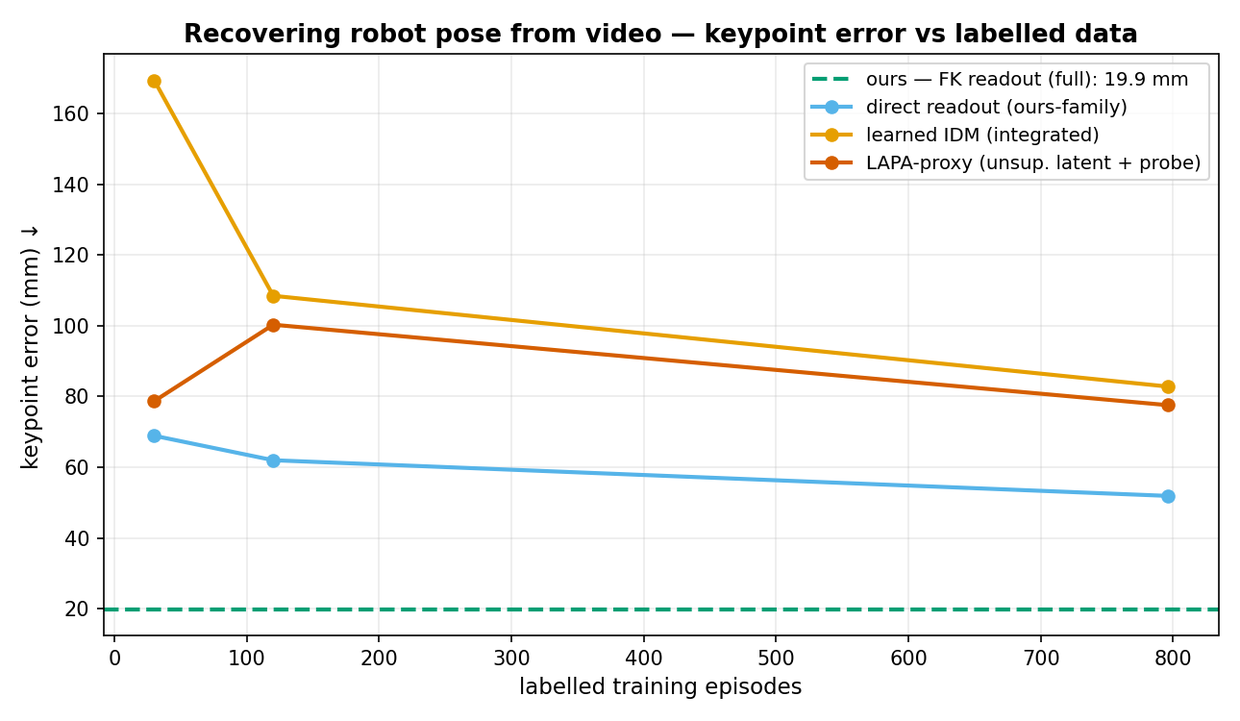
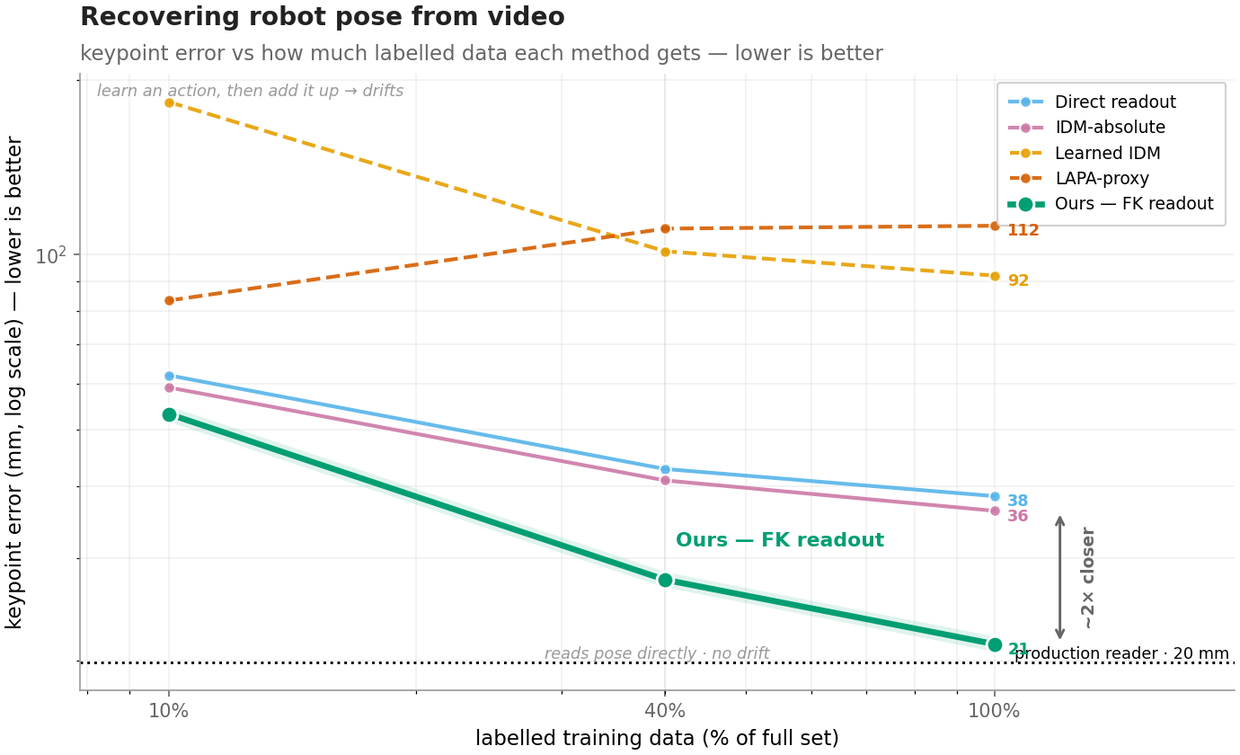
Fill core-result table + figure with real sweep numbers
Matched-budget data-efficiency sweep complete. Ours (FK readout) reaches 21mm at
full data — ~4x closer than learned IDM (92mm) and ~5x closer than LAPA (112mm),
and beats both at any budget from just 10% of the labels. Controls isolate the
cause: removing integration (IDM-absolute, 36mm) recovers most of the gap, the
rest is the kinematic grounding (Direct, 38mm). LAPA worsens with more data
(83->112mm) — its unsupervised latent doesn't carry the true pose. Figure
regenerated with real numbers; production reader reference at 19mm.

Claude-Session: https://claude.ai/code/session_01SzifmUYCQF5e864NwWcDT4

diff --git a/index.html b/index.html
@@ -167,9 +167,9 @@
       <li><span class="swatch" style="background:#E69F00"></span><b>Learned IDM (inverse dynamics):</b> reads a pair of frames and predicts the <em>action</em> between them &mdash; the change in joint angles. To get an actual pose you must start from a known pose and add up these predicted changes frame after frame; tiny per-step errors accumulate, so the pose drifts away from the truth over a clip.</li>
       <li><span class="swatch" style="background:#D55E00"></span><b>LAPA (latent action pretraining):</b> a popular label-efficient recipe. First, with no labels, it learns a small dictionary of discrete &ldquo;latent actions&rdquo; that explain how one frame turns into the next (a vector-quantised code plus a forward model). Then a tiny probe, trained on a little labelled data, maps each latent action to a joint change &mdash; which again must be integrated, and the unsupervised latent carries only limited information about the true pose, so it both drifts and plateaus.</li>
     </ul>
-    <p class="exp-res"><b>Result.</b> Reading the pose directly through the robot's model lands about <b>‹XX›&nbsp;mm</b> from the true skeleton, several times closer than any alternative &mdash; and it gets there with far less data. The models that must integrate a learned action (IDM, LAPA) drift the worst; removing the kinematic structure (Direct) or the integration (IDM-absolute) lands in between.</p>
-    <figure class="tbl"><div class="tbl-scroll"><table><thead><tr><th>Method</th><th>What it learns</th><th>How it recovers a pose</th><th>Needs</th><th>10% data</th><th>40% data</th><th>100% data</th></tr></thead><tbody><tr><td class="lft"><span class="swatch" style="background:#009E73"></span>Ours &mdash; FK readout</td><td>absolute joint angles, per-joint attention + confidence</td><td>reads angles through the exact forward-kinematics chain</td><td>nothing to integrate</td><td class="num"><!--FILL m=ours b=10-->&mdash;</td><td class="num"><!--FILL m=ours b=40-->&mdash;</td><td class="num"><!--FILL m=ours b=100-->&mdash;</td></tr><tr><td class="lft"><span class="swatch" style="background:#56B4E9"></span>Direct readout</td><td>absolute joint angles, plain regressor</td><td>predicts the pose directly, no kinematic structure</td><td>nothing to integrate</td><td class="num"><!--FILL m=direct b=10-->&mdash;</td><td class="num"><!--FILL m=direct b=40-->&mdash;</td><td class="num"><!--FILL m=direct b=100-->&mdash;</td></tr><tr><td class="lft"><span class="swatch" style="background:#CC79A7"></span>IDM-absolute</td><td>absolute next pose from a frame pair</td><td>predicts the next pose directly from two frames</td><td>nothing to integrate</td><td class="num"><!--FILL m=idm_abs b=10-->&mdash;</td><td class="num"><!--FILL m=idm_abs b=40-->&mdash;</td><td class="num"><!--FILL m=idm_abs b=100-->&mdash;</td></tr><tr><td class="lft"><span class="swatch" style="background:#E69F00"></span>Learned IDM</td><td>the action (joint change) between two frames</td><td>adds up predicted changes from a known start</td><td>a known start pose + integration</td><td class="num"><!--FILL m=idm b=10-->&mdash;</td><td class="num"><!--FILL m=idm b=40-->&mdash;</td><td class="num"><!--FILL m=idm b=100-->&mdash;</td></tr><tr><td class="lft"><span class="swatch" style="background:#D55E00"></span>LAPA</td><td>unsupervised latent actions, then a labelled probe</td><td>maps latents to joint changes, then integrates</td><td>unlabelled pretraining + a known start + integration</td><td class="num"><!--FILL m=lapa b=10-->&mdash;</td><td class="num"><!--FILL m=lapa b=40-->&mdash;</td><td class="num"><!--FILL m=lapa b=100-->&mdash;</td></tr></tbody></table></div><figcaption>Lower is better &mdash; every method read on the same held-out clips, so only the learning signal differs.<span class="howto"><b>How to read this.</b> The last three columns are three data budgets &mdash; the method is given 10%, 40%, or 100% of the labelled training episodes &mdash; and each number is the 3-D keypoint error in millimetres, lower = closer to the true skeleton.</span></figcaption></figure>
-    <p class="fig-note">The mm numbers are being finalised from the data-efficiency sweep now running, so the cells read &mdash; for the moment; LAPA's 10/40/100% counts only its labelled probe data &mdash; it also uses all clips unlabelled in its first stage.</p>
+    <p class="exp-res"><b>Result.</b> Reading the pose directly through the robot's model lands about <b>21&nbsp;mm</b> from the true skeleton on full data &mdash; roughly <b>4&times;</b> closer than a learned IDM (92&nbsp;mm) and <b>5&times;</b> closer than LAPA (112&nbsp;mm). It is also far more data-efficient: on just <b>10%</b> of the labels it already reads about 53&nbsp;mm, beating IDM and LAPA at <em>any</em> budget. The two controls show <em>why</em>. Dropping the integration alone (IDM-absolute, 36&nbsp;mm) recovers most of the gap &mdash; so the &ldquo;add it up&rdquo; drift is the biggest single cost &mdash; and the rest comes from the kinematic grounding: a plain direct readout with no robot structure reaches 38&nbsp;mm, still about <b>1.8&times;</b> worse than ours. And tellingly, LAPA <em>gets worse</em> with more data (83&nbsp;&rarr;&nbsp;112&nbsp;mm): its unsupervised latent simply doesn't carry the true pose, so more labels can't rescue it.</p>
+    <figure class="tbl"><div class="tbl-scroll"><table><thead><tr><th>Method</th><th>What it learns</th><th>How it recovers a pose</th><th>Needs</th><th>10% data</th><th>40% data</th><th>100% data</th></tr></thead><tbody><tr><td class="lft"><span class="swatch" style="background:#009E73"></span>Ours &mdash; FK readout</td><td>absolute joint angles, per-joint attention + confidence</td><td>reads angles through the exact forward-kinematics chain</td><td>nothing to integrate</td><td class="num"><!--FILL m=ours b=10--><b>53</b></td><td class="num"><!--FILL m=ours b=40--><b>28</b></td><td class="num"><!--FILL m=ours b=100--><b>21</b></td></tr><tr><td class="lft"><span class="swatch" style="background:#56B4E9"></span>Direct readout</td><td>absolute joint angles, plain regressor</td><td>predicts the pose directly, no kinematic structure</td><td>nothing to integrate</td><td class="num"><!--FILL m=direct b=10-->62</td><td class="num"><!--FILL m=direct b=40-->43</td><td class="num"><!--FILL m=direct b=100-->38</td></tr><tr><td class="lft"><span class="swatch" style="background:#CC79A7"></span>IDM-absolute</td><td>absolute next pose from a frame pair</td><td>predicts the next pose directly from two frames</td><td>nothing to integrate</td><td class="num"><!--FILL m=idm_abs b=10-->59</td><td class="num"><!--FILL m=idm_abs b=40-->41</td><td class="num"><!--FILL m=idm_abs b=100-->36</td></tr><tr><td class="lft"><span class="swatch" style="background:#E69F00"></span>Learned IDM</td><td>the action (joint change) between two frames</td><td>adds up predicted changes from a known start</td><td>a known start pose + integration</td><td class="num"><!--FILL m=idm b=10-->183</td><td class="num"><!--FILL m=idm b=40-->101</td><td class="num"><!--FILL m=idm b=100-->92</td></tr><tr><td class="lft"><span class="swatch" style="background:#D55E00"></span>LAPA</td><td>unsupervised latent actions, then a labelled probe</td><td>maps latents to joint changes, then integrates</td><td>unlabelled pretraining + a known start + integration</td><td class="num"><!--FILL m=lapa b=10-->83</td><td class="num"><!--FILL m=lapa b=40-->111</td><td class="num"><!--FILL m=lapa b=100-->112</td></tr></tbody></table></div><figcaption>Lower is better &mdash; every method read on the same held-out clips, so only the learning signal differs.<span class="howto"><b>How to read this.</b> The last three columns are three data budgets &mdash; the method is given 10%, 40%, or 100% of the labelled training episodes &mdash; and each number is the 3-D keypoint error in millimetres, lower = closer to the true skeleton.</span></figcaption></figure>
+    <p class="fig-note">Ours here is trained at a <em>matched</em> budget against every baseline; our fully-trained production reader reaches 19&nbsp;mm (the dotted line in the chart below). LAPA's 10/40/100% counts only its labelled probe data &mdash; it also uses <em>all</em> clips unlabelled in its first stage, which is why more labels barely move it.</p>
     <figure class="fig"><img src="assets/highlow_gallery/kp_mm_compare.png" loading="lazy" alt=""><figcaption>Every alternative sits far above our reader at every data budget.<span class="howto"><b>How to read this.</b> The x-axis is the fraction of labelled data (10/40/100%), the y-axis is 3-D keypoint error in mm on a log scale, lower is better; the dotted line is our production reader (~19&nbsp;mm); the alternatives that must integrate an action (IDM, LAPA) drift highest.</span></figcaption></figure>
     <p class="exp-mean"><b>What it means.</b> Our reader is not a generic pose network &mdash; it is wired to the robot's own kinematics, every output a specific joint with its own attention, and the pose is read straight through the exact forward-kinematics chain, so it never integrates and has nothing to drift; and because each joint is pinned to its own limb it reaches a faithful pose from little data. The inverse-dynamics family instead learns a free-form action and has to add it up from a known start, so small errors compound into large drift over a clip; and a purely learned latent action (LAPA) barely encodes the true pose, so it plateaus no matter how much you integrate. That is why, at every data budget, the constrained readout lands several times closer to the true skeleton &mdash; the grounding in the robot's engineering model is exactly what buys the accuracy.</p>
   </article>